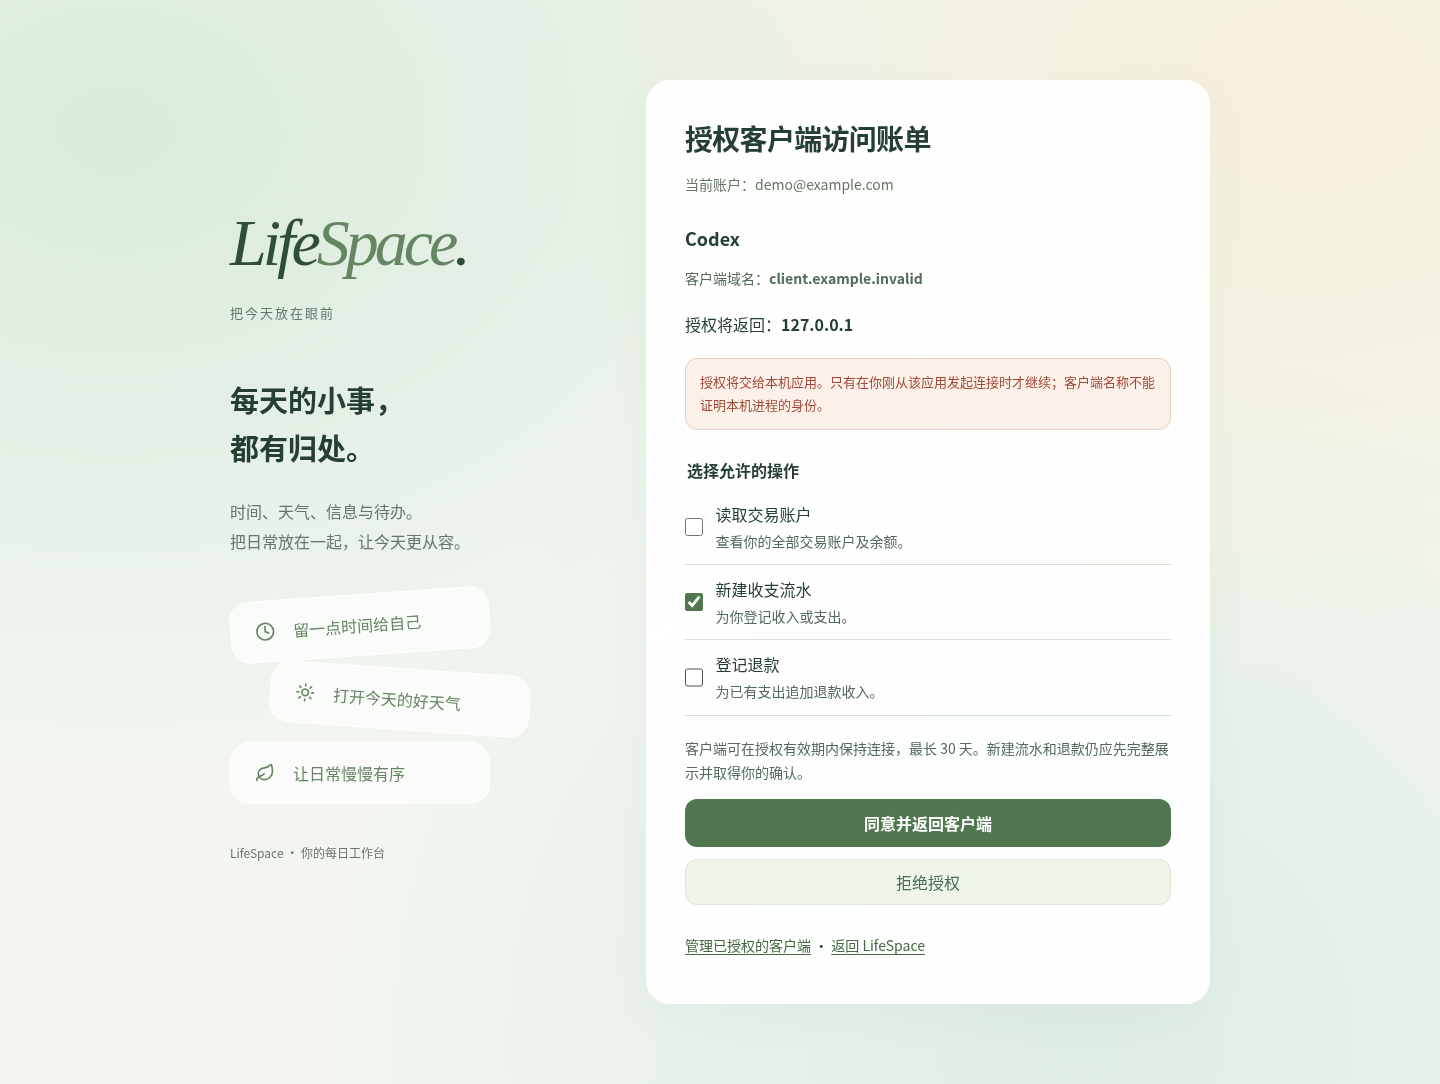
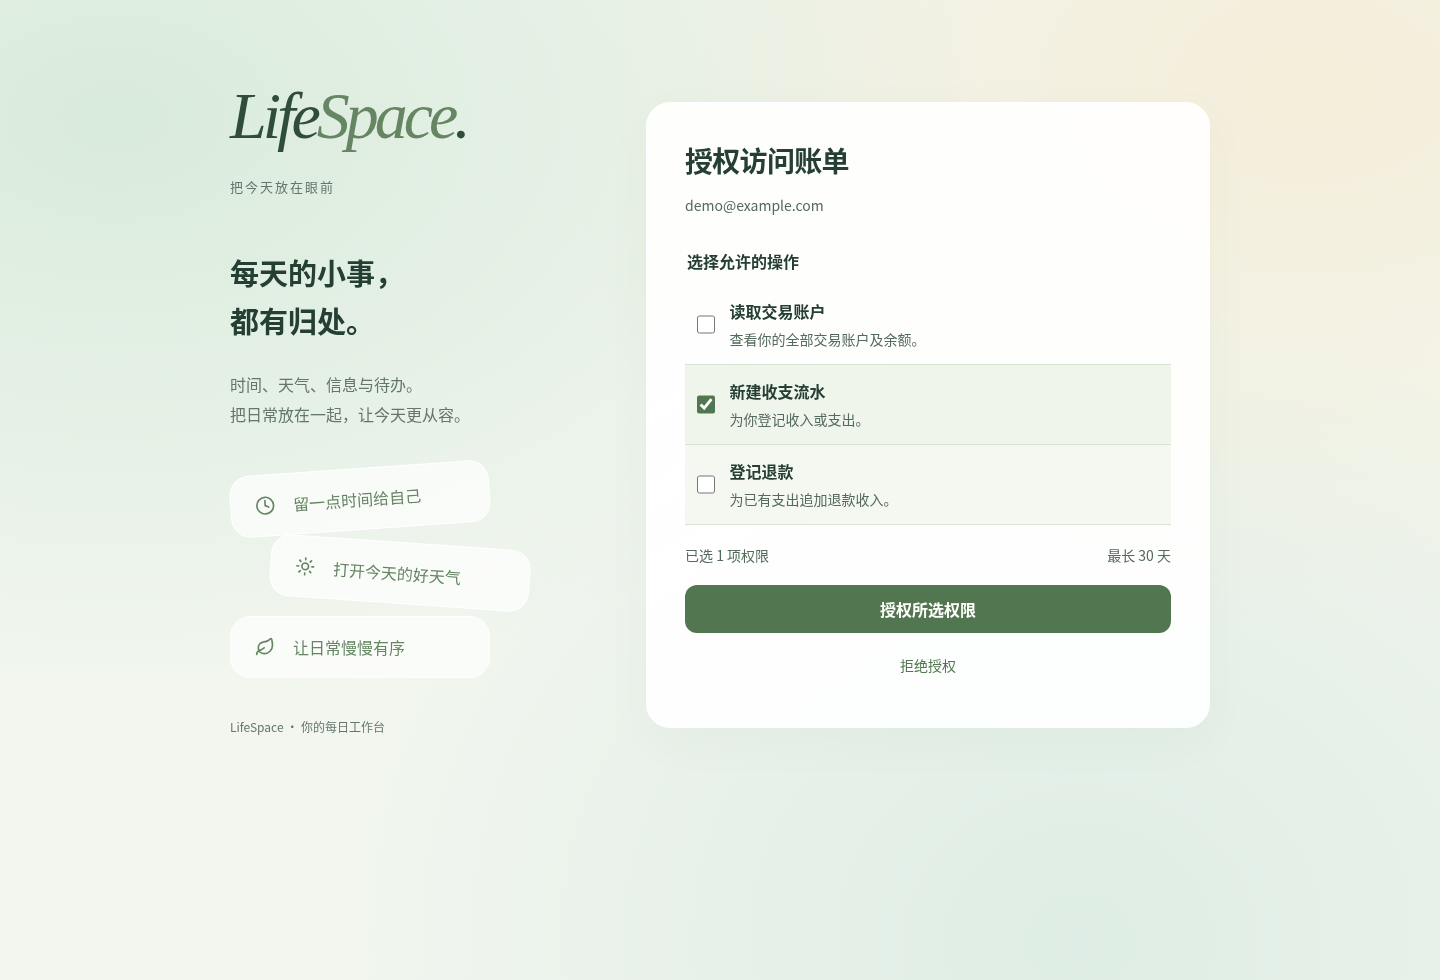
refactor: simplify MCP consent into permission actions (#193)

diff --git a/src/auth/McpAuthorization.tsx b/src/auth/McpAuthorization.tsx
@@ -73,33 +73,28 @@ export function McpAuthorization() {
   function submit(event: FormEvent) { event.preventDefault(); void decide('approve') }
   return <AuthLayout title="客户端授权">
     <div className="mcp-authorization">
-      <h1 id="page-title" tabIndex={-1}>授权客户端访问账单</h1>
-      <p className="auth-subtitle">当前账户：{email}</p>
+      <h1 id="page-title" tabIndex={-1}>授权访问账单</h1>
+      <p className="mcp-account">{email}</p>
       {error && <p className="auth-banner" role="alert" tabIndex={-1} ref={errorElement}>{error}</p>}
-      {!consent && !error && <p>正在核对客户端信息…</p>}
+      {!consent && !error && <p>正在读取授权请求…</p>}
       {consent && <>
-        <h2>{consent.details.clientName}</h2>
-        <p className="mcp-client-source">{consent.details.clientDomain ? <>客户端域名：<strong>{consent.details.clientDomain}</strong></> : '此客户端的名称由其自行注册，请核对是否是你发起的连接。'}</p>
-        <p className="mcp-callback">授权将返回：<strong>{consent.details.redirectHost}</strong></p>
-        {consent.details.redirectIsLoopback && <p className="auth-banner">授权将交给本机应用。只有在你刚从该应用发起连接时才继续；客户端名称不能证明本机进程的身份。</p>}
         <form onSubmit={submit} action="/api/oauth/consent/finish" method="post">
           <fieldset disabled={busy} className="mcp-permissions">
             <legend>选择允许的操作</legend>
             {mcpScopes.map(scope => <div className="mcp-permission" key={scope}>
               <input id={`permission-${scope}`} type="checkbox" name="scope" value={scope} checked={selected.includes(scope)}
-                aria-describedby={`description-${scope}`} onChange={event => {
+                aria-labelledby={`name-${scope}`} aria-describedby={`description-${scope}`} onChange={event => {
                   setSelected(current => event.target.checked ? [...current, scope] : current.filter(value => value !== scope))
                   setError('')
                 }} />
-              <label htmlFor={`permission-${scope}`}>{mcpScopeLabels[scope].name}<span id={`description-${scope}`}>{mcpScopeLabels[scope].description}</span></label>
+              <label htmlFor={`permission-${scope}`}><span className="mcp-permission-name" id={`name-${scope}`}>{mcpScopeLabels[scope].name}</span><span id={`description-${scope}`}>{mcpScopeLabels[scope].description}</span></label>
             </div>)}
           </fieldset>
-          <p className="mcp-note">客户端可在授权有效期内保持连接，最长 30 天。新建流水和退款仍应先完整展示并取得你的确认。</p>
-          <button type="submit" className="auth-primary" disabled={busy}>{busy ? '正在处理…' : '同意并返回客户端'}</button>
-          <button type="button" className="auth-secondary" disabled={busy} onClick={() => void decide('deny')}>拒绝授权</button>
+          <div className="mcp-selection"><span>已选 {selected.length} 项权限</span><span>最长 30 天</span></div>
+          <button type="submit" className="auth-primary" disabled={busy}>{busy ? '正在处理…' : '授权所选权限'}</button>
+          <button type="button" className="auth-link mcp-deny" disabled={busy} onClick={() => void decide('deny')}>拒绝授权</button>
         </form>
       </>}
-      <p className="mcp-footer"><a href="/oauth/grants">管理已授权的客户端</a> · <a href="/">返回 LifeSpace</a></p>
     </div>
   </AuthLayout>
 }
@@ -176,7 +171,6 @@ export function McpGrants() {
         const active = !grant.revokedAt && Date.parse(grant.expiresAt) > Date.now()
         return <li key={grant.id}>
           <h2>{grant.clientName || '未命名客户端'}</h2>
-          <p className="mcp-client-source">{grant.clientId}</p>
           <p>{grant.scopes.map(scope => mcpScopeLabels[scope].name).join('、')}</p>
           <p className="mcp-note">{grant.revokedAt ? '已撤销' : !active ? '已到期' : '已授权'} · 授权于 {new Date(grant.createdAt).toLocaleString('zh-CN')}</p>
           {active && (confirming === grant.id ? <div className="mcp-revoke-confirm">

diff --git a/tests/browser/mcp-oauth.spec.ts b/tests/browser/mcp-oauth.spec.ts
@@ -23,34 +23,39 @@ for (const width of [1440, 390]) {
     })
     await page.route('https://client.example.invalid/callback**', route => route.fulfill({ body: '已返回合成客户端' }))
     await page.goto('/oauth/authorize?client_id=synthetic')
-    await expect(page.getByRole('heading', { name: '授权客户端访问账单' })).toBeVisible()
+    await expect(page.getByRole('heading', { name: '授权访问账单' })).toBeVisible()
     await expect(page).toHaveTitle('客户端授权 · LifeSpace')
-    await expect(page.getByText('client.example.invalid', { exact: true })).toBeVisible()
-    await expect(page.getByText('127.0.0.1', { exact: true })).toBeVisible()
+    const authorization = page.locator('.mcp-authorization')
+    await expect(authorization).not.toContainText('Codex')
+    await expect(authorization).not.toContainText('client.example.invalid')
+    await expect(authorization).not.toContainText('127.0.0.1')
+    await expect(authorization.locator('a')).toHaveCount(0)
+    await expect(page.getByText('已选 1 项权限', { exact: true })).toBeVisible()
     const read = page.getByRole('checkbox', { name: '读取交易账户' })
     await expect(read).toBeChecked()
     await read.focus()
     await page.keyboard.press('Space')
-    await page.getByRole('button', { name: '同意并返回客户端' }).click()
+    await expect(page.getByText('已选 0 项权限', { exact: true })).toBeVisible()
+    await page.getByRole('button', { name: '授权所选权限' }).click()
     await expect(page.getByRole('alert')).toContainText('至少选择一项权限')
     await expect(page.getByRole('alert')).toBeFocused()
     expect(submissions).toBe(0)
     await page.getByRole('checkbox', { name: '新建收支流水' }).check()
     await page.screenshot({ path: `.cache/mcp-consent-${width}.png`, fullPage: true })
     expect(await page.evaluate(() => document.documentElement.scrollWidth <= innerWidth)).toBe(true)
-    await page.getByRole('button', { name: '同意并返回客户端' }).dblclick()
+    await page.getByRole('button', { name: '授权所选权限' }).dblclick()
     await expect(page).toHaveURL(/client\.example\.invalid\/callback/)
     expect(submitted).toMatchObject({ decision: 'approve', scopes: [mcpScopes[1]] })
     expect(submissions).toBe(1)
   })
 }
 
-test('拒绝可独立提交；客户端名称按纯文本显示', async ({ page }) => {
+test('拒绝可独立提交；客户端资料不出现在授权表单', async ({ page }) => {
   await page.route('**/api/oauth/consent/start', route => route.fulfill({ json: { handle: 'synthetic', details: { ...details, clientName: '<img src=x onerror=alert(1)>', clientDomain: undefined } } }))
   let decision = ''
   await page.route('**/api/oauth/consent/finish', route => { decision = route.request().postDataJSON().decision; return route.fulfill({ status: 400, json: { error: { message: '授权页面已失效，请从客户端重新连接' } } }) })
   await page.goto('/oauth/authorize')
-  await expect(page.getByRole('heading', { name: '<img src=x onerror=alert(1)>' })).toBeVisible()
+  await expect(page.locator('.mcp-authorization')).not.toContainText('<img src=x onerror=alert(1)>')
   await expect(page.locator('.mcp-authorization img')).toHaveCount(0)
   await page.getByRole('button', { name: '拒绝授权' }).click()
   await expect(page.getByRole('alert')).toContainText('授权页面已失效')
@@ -110,7 +115,7 @@ test('授权管理空状态、加载失败和撤销失败均可恢复', async ({
   await expect(page.getByRole('status')).toContainText('授权已撤销')
 })
 
-for (const decision of ['同意并返回客户端', '拒绝授权']) test(`手机异步${decision}失败后聚焦可见错误并允许重新操作`, async ({ page }) => {
+for (const decision of ['授权所选权限', '拒绝授权']) test(`手机异步${decision}失败后聚焦可见错误并允许重新操作`, async ({ page }) => {
   await page.setViewportSize({ width: 390, height: 844 })
   await page.route('**/api/oauth/consent/finish', async route => {
     await new Promise(resolve => setTimeout(resolve, 100))

diff --git a/src/auth/mcp-authorization.css b/src/auth/mcp-authorization.css
@@ -1,15 +1,20 @@
 .mcp-authorization { overflow-wrap:anywhere; }
 .mcp-authorization h2 { font-size:1.125rem;line-height:1.5;margin:1.75rem 0 .5rem; }
 .mcp-authorization p { line-height:1.75; }
-.mcp-client-source,.mcp-note { color:#536a5c;font-size:.875rem; }
-.mcp-callback { margin-block:1.25rem; }
-.mcp-permissions { border:0;padding:0;margin:1.75rem 0 1.25rem; }
-.mcp-permissions legend { font-weight:600;margin-block-end:.5rem; }
-.mcp-permission { display:flex;align-items:center;gap:.75rem;min-block-size:4.5rem;border-block-end:1px solid #d9e3d2; }
+.mcp-note { color:#536a5c;font-size:.875rem; }
+.mcp-account { color:#536a5c;font-size:.875rem;margin-block:.75rem 2rem; }
+.mcp-permissions { border:0;padding:0;margin:0 0 1.25rem;min-inline-size:0; }
+.mcp-permissions legend { font-weight:600;margin-block-end:.75rem; }
+.mcp-permission { display:flex;align-items:center;gap:.875rem;min-block-size:5rem;border-block-end:1px solid #d9e3d2;padding-inline:.75rem; }
+.mcp-permission:has(input:checked) { background:#f0f5eb; }
+.mcp-permission:hover { background:#f5f8f1; }
 .mcp-permission input { flex:none;inline-size:1.15rem;block-size:1.15rem;accent-color:#52764f;margin:0; }
 .mcp-permission label { padding-block:.75rem;cursor:pointer;flex:1;min-block-size:3rem; }
 .mcp-permission label span { display:block;font-size:.875rem;color:#536a5c;line-height:1.6;margin-block-start:.25rem; }
+.mcp-permission label .mcp-permission-name { color:#263f34;font-size:1rem;font-weight:600;margin-block-start:0; }
 .mcp-permissions:disabled label { cursor:default;opacity:.65; }
+.mcp-selection { display:flex;flex-wrap:wrap;justify-content:space-between;gap:.5rem;color:#536a5c;font-size:.875rem;margin-block:0 1.25rem; }
+.mcp-deny { display:block;inline-size:100%;min-block-size:3rem;margin-block-start:.5rem;font-size:.875rem; }
 .mcp-footer { margin-block:1.75rem 0;font-size:.875rem; }
 .mcp-footer a { color:#456841;display:inline-block;min-block-size:2rem;text-underline-offset:.2em; }
 .mcp-grants { margin:0;padding:0;list-style:none; }

diff --git a/docs/qa-mcp-oauth.md b/docs/qa-mcp-oauth.md
@@ -26,7 +26,7 @@
 
 本次是既有认证界面的新增状态，沿用 `AuthLayout`、字体、配色、控件和响应式规则，未改原登录、标题、导航及账单页面。架构 SVG 并非 UI 原型。没有新增视觉风格或修改 DESIGN.md；已有 PRODUCT.md 的历史账单描述不作为此次业务需求。截图由本分支 Playwright 用合成用户/客户端生成，桌面/手机授权页展示用户选择写入权限后的状态。
 
-用户随后要求移除页面上的示例客户端字样。预览与截图的合成客户端名称已改为 `Codex`，授权和管理页保持一致；正式组件继续显示请求中的客户端名称。对应现有授权浏览器 7 项重跑通过（正常退出），桌面/手机截图同步更新；名称调整不代表真实 Codex 互操作验收已完成。
+用户明确要求删除整个客户端信息区块，包括名称、域名/链接、回调地址和说明。当前授权页只保留账户、三项权限、选中数量、简短有效期和授权/拒绝操作，管理页移除原始客户端 URL。权限行以原生复选框、可点击标签及选中背景引导，按钮直接说明“授权所选权限”；说明与控件名称分开关联。使用 Modern Web Guidance 的 forms、checkbox、accessibility 指南及 impeccable distill/polish 核对；授权、原登录和共享外围布局共 39 项浏览器正常退出通过，类型/构建通过，detector 返回 `[]`，桌面/手机截图已同步并看图。预览和截图仍使用合成数据，真实客户端互操作及用户界面验收仍待完成。
 
 - [桌面授权页](design/mcp-oauth-consent-desktop.png)
 - [手机授权页](design/mcp-oauth-consent-mobile.png)
@@ -46,4 +46,4 @@
 
 最终代码范围的目标分支与 merge-base 均为 `e235846dc3be0aaef5fb308bc89a82a58e2a6d6e`，待审 HEAD 为 `285ca13451d55100c26f7a89edf717768386fdff`。Standards 独立复核：原三项全部关闭，未解决规范违反 0、Fowler 判断项 0；Spec 独立复核：Origin 项关闭，未解决需求问题 0、无新增偏离。两轴均保留“需确认的变更”分级及真实客户端/生产待验收边界，见 [固定提交评审记录](https://github.com/PancrasDuan/lifespace/pull/194#pullrequestreview-5904492877)。
 
-独立界面文档核对确认是既有 AuthLayout 的普通扩展，保留绿白色、原字体、双栏及680px折叠；新增域名/回调明示、scope逐选、同意拒绝和撤销焦点接续。未创建新视觉系统文件；PRODUCT.md中“拟新增账单/自由账户/不含转账”为已有历史漂移，本任务未修。合成UI预览为 http://127.0.0.1:5194/oauth/authorize 与 /oauth/grants，独立Orca终端保持运行，不连接生产数据。
+独立界面文档核对确认是既有 AuthLayout 的普通扩展，保留绿白色、原字体、双栏及680px折叠；scope逐选、明确同意/拒绝和撤销焦点接续仍保留，客户端信息展示按用户后续要求移除。未创建新视觉系统文件；PRODUCT.md中“拟新增账单/自由账户/不含转账”为已有历史漂移，本任务未修。合成UI预览为 http://127.0.0.1:5194/oauth/authorize 与 /oauth/grants，独立Orca终端保持运行，不连接生产数据。

diff --git a/docs/mcp-oauth-operations.md b/docs/mcp-oauth-operations.md
@@ -4,7 +4,7 @@
 
 ## 客户端与用户
 
-标准地址为 `https://lifespace.onepeace.cc.cd/api/agent/mcp`。无凭据请求返回 401，`WWW-Authenticate` 指向 `/.well-known/oauth-protected-resource/api/agent/mcp`；资源 metadata 指向同源 `/.well-known/oauth-authorization-server`。客户端应用已有预注册信息时优先使用；其次可通过 HTTPS Client ID Metadata Document 识别，文档 URL、redirect URI、客户端鉴权由官方库验证。客户端名称属于客户端声明；同意页显示 CIMD 域名和回调主机，本机回调另有提示。
+标准地址为 `https://lifespace.onepeace.cc.cd/api/agent/mcp`。无凭据请求返回 401，`WWW-Authenticate` 指向 `/.well-known/oauth-protected-resource/api/agent/mcp`；资源 metadata 指向同源 `/.well-known/oauth-authorization-server`。客户端应用已有预注册信息时优先使用；其次可通过 HTTPS Client ID Metadata Document 识别，文档 URL、redirect URI、客户端鉴权由官方库验证。按用户确认的界面范围，同意页聚焦当前账户、权限选择和授权/拒绝操作，移除客户端名称/域名区块、回调地址及其说明；服务端客户端识别和回调校验仍执行。授权管理以名称和授权时间区分连接，不显示原始客户端 URL。
 
 授权码流程必须使用 PKCE S256。客户端完成 Supabase 登录、逐请求准入与明确同意后，只获得 MCP 授权码及专用 access/refresh token。网页登录的会话凭据不会出现在回调、MCP 配置或客户端响应里。同意页默认勾选客户端请求的权限；没有 scope 时默认只读，用户可选择其他三项已公布权限。拒绝通过经过验证的回调返回 `access_denied`、state 和 issuer。
 
